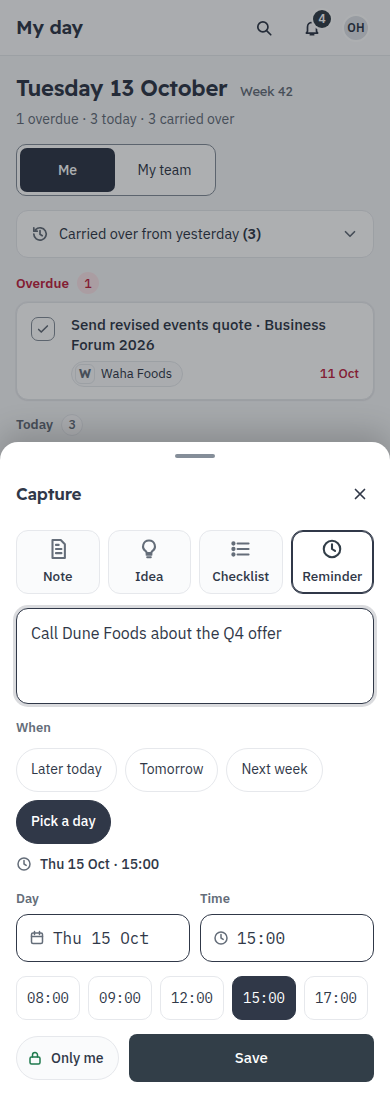
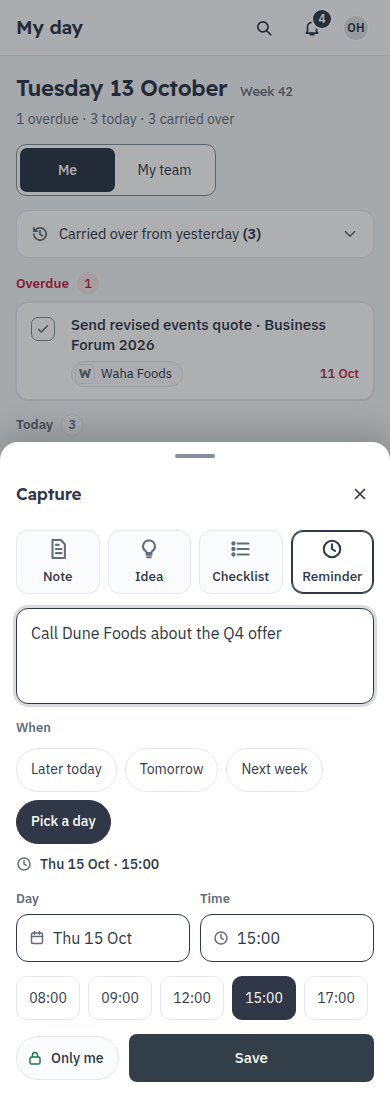
Design: Stage 2 alert docks at the bottom, times in the body font (QA-563)
Claude-Session: https://claude.ai/code/session_01WPS8Rw97iDr6Hh5jw5gHY1

diff --git a/docs/v2/briefs/my-day-stage2.md b/docs/v2/briefs/my-day-stage2.md
@@ -41,12 +41,12 @@ Counts: menu entries +1 on a client and +1 on a task; buttons +0; fields +0 (one
 ## D. Words (two words or fewer on a chip or button)
 Reminder · Now · Done · Later today · Tomorrow · Next week · Pick a day · When · Day · Time · Follow up · Only me · Save · Undo.
 The alert, the bell row and the browser notification use the same words. There is no Snooze in v1.
-Times: Riyadh time, 24-hour, Latin digits, Gregorian dates, in Arabic too. **Later today** is three hours on, or 17:30 if that is later than the end of the working day; the result line always shows the real time.
+Times: Riyadh time, 24-hour, in the body font with tabular figures (never monospace; mono is for IDs, amounts and codes), Latin digits, Gregorian dates, in Arabic too. **Later today** is three hours on, or 17:30 if that is later than the end of the working day; the result line always shows the real time.
 **Tomorrow** and **Next week** are the next working day and the next Sunday; on a Thursday, Tomorrow reads Sunday (the weekend is Friday and Saturday).
 Arabic (Builder C via QA 1 confirms): Reminder تذكير · Now الآن · Done تم · Later today لاحقًا اليوم · Tomorrow غدًا · Next week الأسبوع القادم · Pick a day اختر يومًا · When متى · Day التاريخ · Time الوقت · Follow up متابعة · Only me أنا فقط.
 
 ## E. Behaviour
-1. **The alert** shows on any page while the app is open, over the content under the top bar. It has the reminder's words (a tap opens the item), **Done**, **Tomorrow** and **Next week**. It does not cover the floating +, and it never takes focus from a field being typed in. Done ends the reminder. Tomorrow and Next week move it (09:00 Riyadh) and Today shows the new day.
+1. **The alert** shows on any page while the app is open. It docks at the **bottom**: above the floating + on a phone, bottom-right on a wide screen, 16 px from the edge, so it never covers a header action (QA-563). It has the reminder's words (a tap opens the item), **Done**, **Tomorrow** and **Next week**. It does not cover the floating +, and it never takes focus from a field being typed in. Done ends the reminder. Tomorrow and Next week move it (09:00 Riyadh) and Today shows the new day.
 2. **If the app is closed** the person gets a **browser notification** if they allow it: the same two lines as the alert ("Reminder" and the words), no buttons. The browser's own permission prompt appears once, when the first Reminder is saved; no screen of ours. A true push to a closed app comes later.
 3. **When**: Tomorrow is chosen when the sheet opens (09:00 Riyadh). The result line is always visible. Save is never blocked by the time.
 4. **Follow up** is private: it starts on Only me and the chip on the record shows only to its author (V454). It is a reminder tied to the record: the Today row says "Follow up: <name>" with the clock; done there ends it everywhere. The record can hold one open follow-up per person; setting another asks nothing and replaces the first (Undo restores it).
